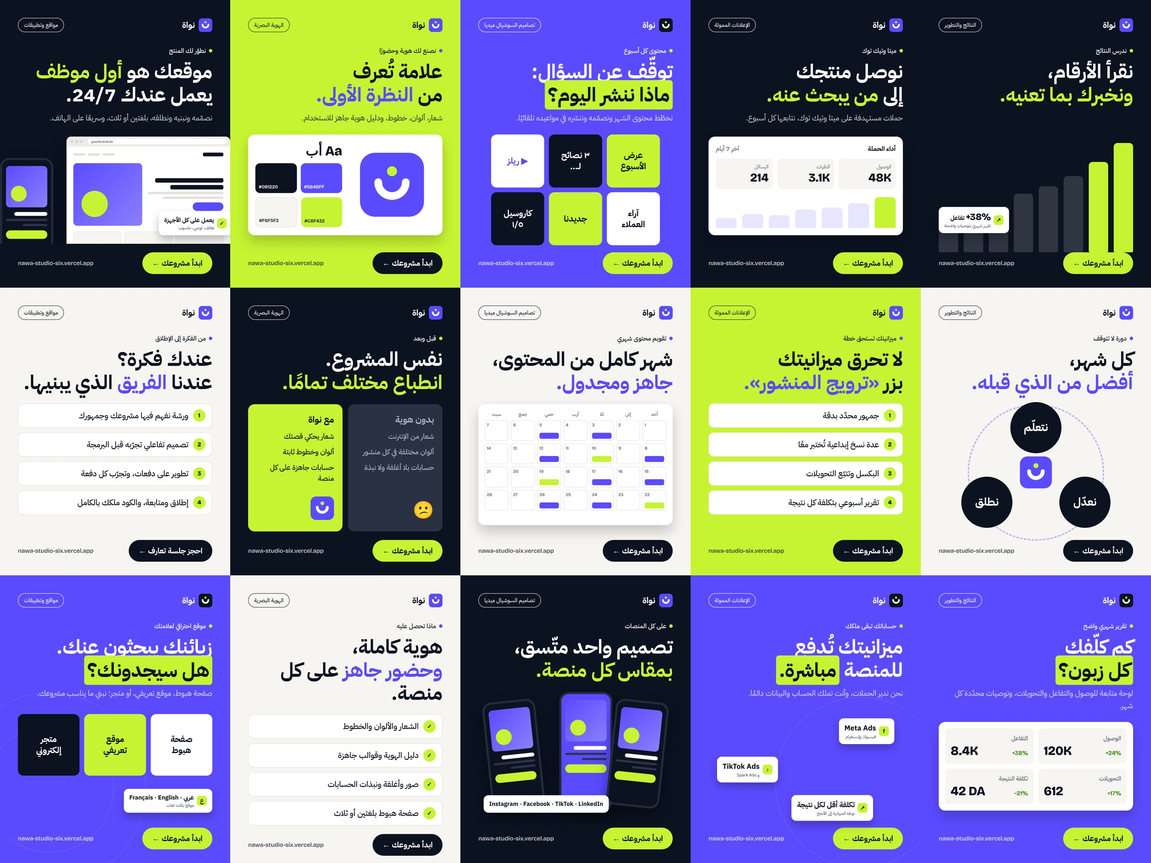
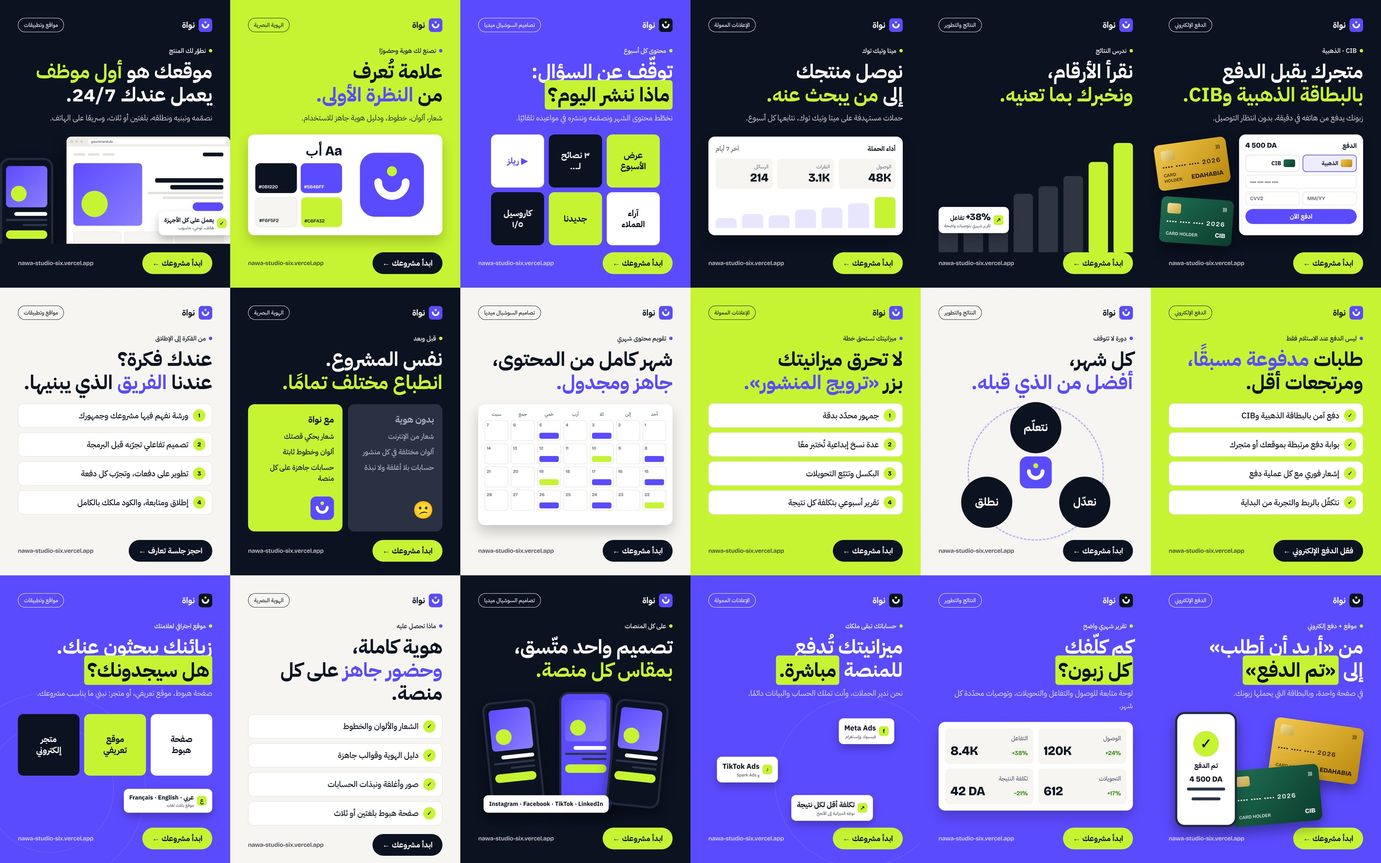
Add CIB/Edahabia payment ads and ad copy page
Claude-Session: https://claude.ai/code/session_013mdqmQCdncwjDBDUVvHTuE

diff --git a/ads/copy/index.html b/ads/copy/index.html
@@ -1,0 +1,84 @@
+<title>Nawa Ad Copy</title>
+<meta name="claude:viewport-fit-sides" content="cover">
+<link rel="stylesheet" href="https://fonts.googleapis.com/css2?family=IBM+Plex+Sans+Arabic:wght@400;500;700&family=Bricolage+Grotesque:opsz,wght@12..96,600..800&display=swap">
+<style>
+/* Layout: ad library. Each creative sits beside its three copy fields, grouped by service, with a sticky filter row. */
+:root{--bg:#F6F5F2;--surface:#FFFFFF;--fg:#0B1220;--muted:#5A6170;--line:#E3E1DB;--accent:#5B4BFF;--lime:#C6F432;--on-lime:#0B1220;--warn-bg:#FFF4D6;--warn-fg:#6B4E00;
+--ar:"IBM Plex Sans Arabic",Tahoma,sans-serif;--lat:"Bricolage Grotesque","Helvetica Neue",Arial,sans-serif}
+@media (prefers-color-scheme:dark){:root:not([data-theme="light"]){--bg:#0B1220;--surface:#151D2E;--fg:#F3F4F7;--muted:#A9B0C0;--line:#273047;--accent:#8A7FFF;--warn-bg:#3A3112;--warn-fg:#F2D78A;color-scheme:dark}}
+:root[data-theme="dark"]{--bg:#0B1220;--surface:#151D2E;--fg:#F3F4F7;--muted:#A9B0C0;--line:#273047;--accent:#8A7FFF;--warn-bg:#3A3112;--warn-fg:#F2D78A;color-scheme:dark}
+body{background:var(--bg);color:var(--fg);font-family:var(--ar);font-size:16px;line-height:1.7}
+.wrap{max-width:1120px;margin:0 auto;padding-block:40px 80px;padding-left:max(16px,env(safe-area-inset-left,0px));padding-right:max(16px,env(safe-area-inset-right,0px))}
+header h1{font-size:clamp(28px,4vw,40px);line-height:1.25;text-wrap:balance;margin:0}
+header p{color:var(--muted);margin:8px 0 0;max-width:62ch}
+.dot{display:inline-block;width:12px;height:12px;border-radius:50%;background:var(--lime);margin-inline-end:10px;vertical-align:middle}
+body::before{content:"";position:fixed;inset:0 0 auto;height:env(safe-area-inset-top,0px);z-index:10;background:var(--bg)}
+.filters{position:sticky;top:env(safe-area-inset-top,0px);z-index:5;background:var(--bg);display:flex;gap:8px;flex-wrap:wrap;padding-block:16px;margin-top:20px;border-bottom:1px solid var(--line)}
+.filters button{font:500 15px var(--ar);border:1px solid var(--line);background:var(--surface);color:var(--fg);padding:8px 16px;border-radius:99px;cursor:pointer}
+.filters button[aria-pressed="true"]{background:var(--fg);color:var(--bg);border-color:var(--fg)}
+.filters button:focus-visible,.cp:focus-visible{outline:3px solid var(--accent);outline-offset:2px}
+section.svc{margin-top:44px}
+section.svc>h2{font-size:24px;margin:0 0 4px}
+section.svc>p{color:var(--muted);margin:0 0 20px}
+.ad{display:grid;grid-template-columns:300px minmax(0,1fr);gap:28px;padding:24px;background:var(--surface);border:1px solid var(--line);border-radius:20px;margin-bottom:18px}
+.ad img{width:100%;border-radius:12px;display:block;aspect-ratio:4/5;object-fit:cover;max-width:100%}
+.meta{display:flex;justify-content:space-between;align-items:center;gap:12px;flex-wrap:wrap}
+.id{font:600 14px var(--lat);color:var(--muted);direction:ltr}
+.fields{display:grid;gap:16px;margin-top:10px}
+.f{min-width:0}
+.f .lab{display:flex;align-items:center;gap:10px;font-size:13px;font-weight:700;color:var(--muted);letter-spacing:.02em}
+.f .lab small{font:500 12px var(--lat);direction:ltr}
+.f .txt{margin-top:6px;white-space:pre-line;overflow-wrap:anywhere}
+.f.h .txt{font-size:20px;font-weight:700;line-height:1.5}
+.cp{margin-inline-start:auto;font:500 13px var(--ar);background:transparent;color:var(--accent);border:1px solid var(--line);border-radius:99px;padding:3px 12px;cursor:pointer}
+.warn{background:var(--warn-bg);color:var(--warn-fg);border-radius:12px;padding:10px 14px;font-size:14px}
+.cta{font-size:13px;background:var(--lime);color:var(--on-lime);border-radius:99px;padding:3px 12px;font-weight:700}
+@media (max-width:720px){.ad{grid-template-columns:1fr;padding:16px}.ad img{max-width:340px}}
+@media (prefers-reduced-motion:reduce){*{transition:none!important}}
+</style>
+<div class="wrap">
+<header><h1><span class="dot"></span>نصوص إعلانات نواة</h1>
+<p>18 تصميمًا، 3 لكل خدمة. لكل إعلان: العنوان (Headline)، النص الأساسي (Primary text)، والوصف (Description)، جاهزة للصق في مدير إعلانات ميتا. الصور بمقاس 1080×1350 (4:5).</p></header>
+<nav class="filters" id="filters" aria-label="الخدمات"></nav>
+<main id="list"></main>
+</div>
+<script>
+const SVC=[
+ ['web','المواقع والتطبيقات','نبني موقعك أو تطبيقك من الفكرة إلى الإطلاق.'],
+ ['brand','الهوية البصرية','شعار وألوان ودليل هوية وحسابات جاهزة.'],
+ ['social','تصاميم السوشيال ميديا','تقويم شهري وتصاميم ونشر مجدول.'],
+ ['ads','الإعلانات الممولة','حملات ميتا وتيك توك ومتابعة أسبوعية.'],
+ ['growth','النتائج والتطوير','تقارير شهرية وتوصيات وتحسين مستمر.'],
+ ['pay','الدفع الإلكتروني','الدفع بالبطاقة الذهبية وCIB على موقعك أو متجرك.'],
+];
+const ADS={
+'web-1':{cta:'ابدأ مشروعك',h:'موقعك يعمل عندك 24/7',p:'زبونك يبحث عنك في الليل، في العطلة، وأنت نائم.\nموقع احترافي يعرّف بمشروعك، يجيب عن أسئلته، ويستقبل طلباته في أي وقت.\n\nنصمّمه ونبنيه ونطلقه بالعربية والفرنسية والإنجليزية، وسريعًا على الهاتف.\nاكتب لنا وابدأ مشروعك هذا الأسبوع.',d:'موقع احترافي بثلاث لغات'},
+'web-2':{cta:'احجز جلسة تعارف',h:'عندك فكرة؟ نحن نبنيها',p:'من الفكرة إلى منتج يعمل في أيدي زبائنك:\n١. ورشة نفهم فيها مشروعك وجمهورك\n٢. تصميم تفاعلي تجرّبه قبل البرمجة\n٣. تطوير على دفعات، وتجرّب كل دفعة بنفسك\n٤. إطلاق ومتابعة، والكود ملكك بالكامل\n\nاحجز جلسة تعارف مجانية لمدة نصف ساعة.',d:'جلسة تعارف مجانية'},
+'web-3':{cta:'ابدأ مشروعك',h:'زبائنك يبحثون عنك. هل سيجدونك؟',p:'إذا لم يكن لمشروعك موقع، فزبونك سيجد منافسك أولًا.\nصفحة هبوط لحملتك، موقع تعريفي لشركتك، أو متجر إلكتروني لمنتجاتك: نبني ما يناسبك، بالعربية والفرنسية والإنجليزية.',d:'صفحة هبوط، موقع، أو متجر'},
+'brand-1':{cta:'ابدأ مشروعك',h:'علامة تُعرف من النظرة الأولى',p:'الزبون يحكم على مشروعك في ثوانٍ.\nنصمّم لك شعارًا وألوانًا وخطوطًا تحكي قصتك، مع دليل هوية وقوالب جاهزة يستعملها فريقك في كل منشور ومطبوعة.',d:'شعار + ألوان + دليل هوية'},
+'brand-2':{cta:'ابدأ مشروعك',h:'نفس المشروع. انطباع مختلف',p:'شعار من الإنترنت، ألوان تتغيّر في كل منشور، وحسابات بلا غلاف ولا نبذة؟\nهوية واحدة ثابتة تجعل مشروعك يبدو بحجم ما يستحق، وتجعل الزبون يتذكّرك.\n\nأرنا ما عندك اليوم، ونقترح لك البداية.',d:'هوية بصرية متكاملة'},
+'brand-3':{cta:'ابدأ مشروعك',h:'هوية كاملة وحضور جاهز',p:'كل ما يراه زبونك أول مرة، في باقة واحدة:\n✓ الشعار والألوان والخطوط\n✓ دليل الهوية وقوالب جاهزة\n✓ صور وأغلفة ونبذات حسابات فيسبوك وإنستغرام وتيك توك ولينكدإن\n✓ صفحة هبوط بلغتين أو ثلاث',d:'باقة الهوية والحضور'},
+'social-1':{cta:'ابدأ مشروعك',h:'توقّف عن السؤال: ماذا ننشر اليوم؟',p:'نخطّط محتوى شهرك كاملًا، نصمّمه بهوية مشروعك، ثم ننشره في مواعيده تلقائيًا.\nأنت تراجع وتوافق من بوابة نواة، ونحن نتكفّل بالباقي.',d:'محتوى شهري جاهز'},
+'social-2':{cta:'ابدأ مشروعك',h:'شهر كامل من المحتوى، مجدول',p:'تقويم محتوى شهري: منشورات، كاروسيل، وأغلفة ريلز.\nترى كل منشور قبل نشره، توافق عليه أو تطلب تعديله، ثم يُنشر تلقائيًا في يومه وساعته.',d:'تقويم شهري + نشر تلقائي'},
+'social-3':{cta:'ابدأ مشروعك',h:'تصميم واحد، بمقاس كل منصة',p:'إنستغرام، فيسبوك، تيك توك، ولينكدإن: لكل منصة مقاسها وجمهورها.\nنصمّم محتواك متّسقًا مع هويتك، ونكيّفه لكل منصة، وننشره من مكان واحد.',d:'نشر على 4 منصات'},
+'ads-1':{cta:'ابدأ مشروعك',h:'نوصل منتجك لمن يبحث عنه',warn:true,p:'حملات مستهدفة على فيسبوك وإنستغرام وتيك توك.\nنختار الجمهور، نصمّم عدة نسخ ونختبرها، ونتابع النتائج كل أسبوع لنضع الميزانية حيث تعطي أفضل نتيجة.',d:'إعلانات ميتا وتيك توك'},
+'ads-2':{cta:'ابدأ مشروعك',h:'لا تحرق ميزانيتك بـ«ترويج المنشور»',p:'زر «ترويج» يصرف المال بسرعة، لكنه نادرًا ما يجلب زبائن.\nحملة حقيقية تبدأ بـ:\n١. جمهور محدّد بدقة\n٢. عدة نسخ إبداعية تُختبر معًا\n٣. البكسل وتتبّع التحويلات\n٤. تقرير أسبوعي بتكلفة كل نتيجة',d:'حملات مدروسة، لا ترويج عشوائي'},
+'ads-3':{cta:'ابدأ مشروعك',h:'ميزانيتك تُدفع للمنصة مباشرة',p:'نحن ندير حملاتك على ميتا وتيك توك، وأنت تبقى المالك.\nتُدفع الميزانية من حسابك مباشرة للمنصة، وتبقى الحسابات والبيانات ملكك دائمًا. نحن نوجّهها نحو الإعلانات الأنجح.',d:'شفافية كاملة في الميزانية'},
+'growth-1':{cta:'ابدأ مشروعك',h:'نقرأ الأرقام ونخبرك بما تعنيه',warn:true,p:'الوصول، التفاعل، والتحويلات: أرقام كثيرة، وسؤال واحد يهمّك: ماذا أفعل الآن؟\nنرسل لك كل شهر تقريرًا واضحًا بلغة بسيطة، مع توصيات محدّدة للشهر القادم.',d:'تقرير شهري بتوصيات'},
+'growth-2':{cta:'ابدأ مشروعك',h:'كل شهر أفضل من الذي قبله',p:'نتعلّم من النتائج، نعدّل المحتوى والإعلانات والمنتج، ثم نطلق من جديد.\nدورة مستمرة تجعل كل شهر يبني على ما نجح في الشهر الذي قبله.',d:'نتعلّم، نعدّل، نطلق'},
+'growth-3':{cta:'ابدأ مشروعك',h:'كم كلّفك كل زبون؟',warn:true,p:'إذا لم تعرف تكلفة الزبون الواحد، فأنت لا تعرف إن كانت إعلاناتك مربحة.\nلوحة متابعة للوصول والتفاعل والتحويلات، وتكلفة كل نتيجة في كل حملة، مع توصيات محدّدة كل شهر.',d:'لوحة متابعة + تقرير شهري'},
+'pay-1':{cta:'ابدأ مشروعك',h:'متجرك يقبل الذهبية وCIB',p:'زبونك يريد الشراء الآن، لا انتظار التوصيل ليدفع.\nنضيف إلى موقعك أو متجرك الدفع الإلكتروني بالبطاقة الذهبية وبطاقة CIB، ليدفع من هاتفه في دقيقة.',d:'الدفع الإلكتروني لمتجرك'},
+'pay-2':{cta:'فعّل الدفع الإلكتروني',h:'طلبات مدفوعة مسبقًا، ومرتجعات أقل',p:'الدفع عند الاستلام فقط يعني طلبات تُرفض عند الباب ومصاريف توصيل ضائعة.\n✓ دفع آمن بالبطاقة الذهبية وCIB\n✓ بوابة دفع مرتبطة بموقعك أو متجرك\n✓ إشعار فوري مع كل عملية دفع\n✓ نتكفّل بالربط والتجربة من البداية',d:'الذهبية وCIB على موقعك'},
+'pay-3':{cta:'ابدأ مشروعك',h:'من «أريد أن أطلب» إلى «تم الدفع»',p:'موقع أو متجر جاهز للبيع، والدفع فيه بالبطاقة التي يحملها زبونك: الذهبية أو CIB.\nكل شيء في صفحة واحدة، من اختيار المنتج إلى تأكيد الدفع.',d:'موقع + دفع إلكتروني'},
+};
+const LAB={h:['العنوان','Headline'],p:['النص الأساسي','Primary text'],d:['الوصف','Description']};
+const esc=s=>s.replace(/[&<>"]/g,c=>({'&':'&amp;','<':'&lt;','>':'&gt;','"':'&quot;'}[c]));
+document.getElementById('list').innerHTML=SVC.map(([k,name,sub])=>`<section class="svc" data-svc="${k}"><h2>${name}</h2><p>${sub}</p>${[1,2,3].map(n=>{const id=`${k}-${n}`,a=ADS[id];return `<article class="ad"><img src="img/${id}.jpg" alt="${esc(a.h)}" loading="lazy" width="1080" height="1350"><div style="min-width:0"><div class="meta"><span class="id">${id}.png</span><span class="cta">الزر: ${a.cta}</span></div>${a.warn?'<p class="warn">الأرقام في التصميم توضيحية. استبدلها بنتائج حقيقية أو أضف عليها «مثال» قبل النشر.</p>':''}<div class="fields">${['h','p','d'].map(f=>`<div class="f ${f}"><div class="lab">${LAB[f][0]} <small>${LAB[f][1]}</small><button class="cp" type="button" data-t="${esc(a[f])}">نسخ</button></div><div class="txt">${esc(a[f])}</div></div>`).join('')}</div></div></article>`}).join('')}</section>`).join('');
+const fl=document.getElementById('filters');
+fl.innerHTML=[['all','الكل'],...SVC.map(s=>[s[0],s[1]])].map(([k,n],i)=>`<button type="button" data-k="${k}" aria-pressed="${i==0}">${n}</button>`).join('');
+fl.addEventListener('click',e=>{const b=e.target.closest('button');if(!b)return;fl.querySelectorAll('button').forEach(x=>x.setAttribute('aria-pressed',x===b));document.querySelectorAll('section.svc').forEach(s=>s.hidden=!(b.dataset.k=='all'||s.dataset.svc==b.dataset.k));});
+document.addEventListener('click',e=>{const b=e.target.closest('.cp');if(!b)return;const done=()=>{b.textContent='نُسخ';setTimeout(()=>b.textContent='نسخ',1500)};
+const sel=()=>{const r=document.createRange();r.selectNodeContents(b.closest('.f').querySelector('.txt'));const s=getSelection();s.removeAllRanges();s.addRange(r);b.textContent='حدّد ثم انسخ'};
+try{navigator.clipboard.writeText(b.dataset.t).then(done,sel)}catch(_){sel()}});
+document.documentElement.dir='rtl';document.documentElement.lang='ar';
+</script>

diff --git a/ads/ads.html b/ads/ads.html
@@ -63,6 +63,16 @@ h1 .mark{background:var(--lime);color:var(--ink);padding:0 14px;border-radius:14
 .vs{display:grid;grid-template-columns:1fr 1fr;gap:26px;height:100%}
 .vs>div{border-radius:30px;padding:40px;display:flex;flex-direction:column;gap:22px;font-size:34px;font-weight:500}
 .vs h3{font-size:42px}
+.bcard{position:absolute;width:420px;height:265px;border-radius:26px;padding:30px;color:#fff;box-shadow:0 30px 60px rgba(0,0,0,.35);display:flex;flex-direction:column;justify-content:space-between;font-family:"Bricolage Grotesque";direction:ltr}
+.bcard .chipx{width:64px;height:48px;border-radius:10px;background:linear-gradient(135deg,#f3e3a1,#c9a640)}
+.bcard .num{font-size:30px;letter-spacing:4px;font-weight:600}
+.bcard .nm{display:flex;justify-content:space-between;align-items:flex-end;font-size:30px;font-weight:800}
+.gold{background:linear-gradient(135deg,#F2C94C,#B8860B);color:#2b1d00}
+.cib{background:linear-gradient(135deg,#1F6F54,#0B3B2C)}
+.field{height:64px;border-radius:16px;border:2px solid var(--line);margin-top:14px;display:flex;align-items:center;padding:0 20px;font:600 24px "Bricolage Grotesque";color:var(--muted);direction:ltr}
+.opt{flex:1;border-radius:18px;border:3px solid var(--line);padding:18px;font-size:26px;font-weight:700;display:flex;align-items:center;gap:12px}
+.opt.on{border-color:var(--indigo);background:#EEECFF}
+.opt i{width:54px;height:36px;border-radius:8px;flex:none}
 </style></head><body>
 <script>
 const LOGO=`<svg viewBox="0 0 512 512"><rect width="512" height="512" rx="120" fill="#5B4BFF"/><path d="M146 236 A110 110 0 0 0 366 236" fill="none" stroke="#fff" stroke-width="62" stroke-linecap="round"/><circle cx="256" cy="148" r="40" fill="#C6F432"/></svg>`;
@@ -119,6 +129,14 @@ ${[['نتعلّم','top:-10px;left:50%;transform:translateX(-50%)'],['نعدّل
 <div style="position:absolute;inset:0;display:grid;place-items:center">${LOGO.replace('<svg','<svg style="width:150px;height:150px"')}</div></div></div>${foot()}`],
 ['growth-3','indigo',`${hd('النتائج والتطوير')}<div class="k">تقرير شهري واضح</div><h1>كم كلّفك<br><span class="mark">كل زبون؟</span></h1><p class="sub">لوحة متابعة للوصول والتفاعل والتحويلات، وتوصيات محدّدة كل شهر.</p>
 <div class="vis"><div class="card" style="position:absolute;inset:0 0 40px 0;display:grid;grid-template-columns:1fr 1fr;gap:22px;padding:30px">${[['الوصول','120K','+24%'],['التفاعل','8.4K','+38%'],['التحويلات','612','+17%'],['تكلفة النتيجة','42 DA','−21%']].map(([a,b,c])=>`<div style="background:var(--paper);border-radius:22px;padding:26px;display:flex;flex-direction:column;justify-content:space-between"><div style="font-size:28px;color:var(--muted);font-weight:500">${a}</div><div style="display:flex;justify-content:space-between;align-items:baseline;direction:ltr"><span style="font:800 60px 'Bricolage Grotesque'">${b}</span><span style="font:700 28px 'Bricolage Grotesque';color:#3a8f12">${c}</span></div></div>`).join('')}</div></div>${foot()}`],
+['pay-1','ink',`${hd('الدفع الإلكتروني')}<div class="k">CIB · الذهبية</div><h1>متجرك يقبل الدفع<br><span class="hl">بالبطاقة الذهبية وCIB.</span></h1><p class="sub">زبونك يدفع من هاتفه في دقيقة، بدون انتظار التوصيل.</p>
+<div class="vis"><div class="card" style="position:absolute;inset:0 0 40px 330px;padding:30px"><div style="font-size:30px;font-weight:700;display:flex;justify-content:space-between">الدفع<span style="font:800 34px 'Bricolage Grotesque';direction:ltr">4 500 DA</span></div><div style="display:flex;gap:14px;margin-top:20px"><div class="opt on"><i class="gold"></i>الذهبية</div><div class="opt"><i class="cib"></i>CIB</div></div><div class="field">•••• •••• •••• ••••</div><div style="display:flex;gap:14px"><div class="field" style="flex:1">MM/YY</div><div class="field" style="flex:1">CVV2</div></div><div style="margin-top:18px;height:70px;border-radius:99px;background:var(--indigo);color:#fff;display:grid;place-items:center;font-size:30px;font-weight:700">ادفع الآن</div></div>
+<div class="bcard gold" style="left:-60px;top:30px;transform:rotate(-8deg);width:340px;height:215px"><div style="display:flex;justify-content:space-between"><span class="chipx"></span><span style="font-size:24px;opacity:.85">))) </span></div><div class="num">•••• •••• •••• 2026</div><div class="nm"><span style="font-size:22px;font-weight:600;opacity:.85">CARD HOLDER</span>EDAHABIA</div></div><div class="bcard cib" style="left:-40px;top:300px;transform:rotate(4deg);width:340px;height:215px"><div style="display:flex;justify-content:space-between"><span class="chipx"></span><span style="font-size:24px;opacity:.85">))) </span></div><div class="num">•••• •••• •••• 2026</div><div class="nm"><span style="font-size:22px;font-weight:600;opacity:.85">CARD HOLDER</span>CIB</div></div></div>${foot()}`],
+['pay-2','lime-bg',`${hd('الدفع الإلكتروني')}<div class="k">ليس الدفع عند الاستلام فقط</div><h1>طلبات <span class="hl">مدفوعة مسبقًا،</span><br>ومرتجعات أقل.</h1>
+<ul class="list"><li><span class="n">✓</span>دفع آمن بالبطاقة الذهبية وCIB</li><li><span class="n">✓</span>بوابة دفع مرتبطة بموقعك أو متجرك</li><li><span class="n">✓</span>إشعار فوري مع كل عملية دفع</li><li><span class="n">✓</span>نتكفّل بالربط والتجربة من البداية</li></ul>${foot('فعّل الدفع الإلكتروني')}`],
+['pay-3','indigo',`${hd('الدفع الإلكتروني')}<div class="k">موقع + دفع إلكتروني</div><h1>من «أريد أن أطلب»<br>إلى <span class="mark">«تم الدفع»</span></h1><p class="sub">في صفحة واحدة، وبالبطاقة التي يحملها زبونك.</p>
+<div class="vis"><div class="bcard gold" style="right:10px;top:60px;transform:rotate(8deg)"><div style="display:flex;justify-content:space-between"><span class="chipx"></span><span style="font-size:24px;opacity:.85">))) </span></div><div class="num">•••• •••• •••• 2026</div><div class="nm"><span style="font-size:22px;font-weight:600;opacity:.85">CARD HOLDER</span>EDAHABIA</div></div><div class="bcard cib" style="right:200px;top:270px;transform:rotate(-5deg)"><div style="display:flex;justify-content:space-between"><span class="chipx"></span><span style="font-size:24px;opacity:.85">))) </span></div><div class="num">•••• •••• •••• 2026</div><div class="nm"><span style="font-size:22px;font-weight:600;opacity:.85">CARD HOLDER</span>CIB</div></div>
+<div class="phone" style="left:30px;top:10px;height:540px;width:290px;background:#fff;padding:40px 22px;display:flex;flex-direction:column;align-items:center;gap:18px;color:var(--ink)"><div style="width:120px;height:120px;border-radius:50%;background:var(--lime);display:grid;place-items:center;font-size:64px;font-weight:800;margin-top:40px">✓</div><div style="font-size:32px;font-weight:700">تم الدفع</div><div style="font:800 36px 'Bricolage Grotesque';direction:ltr">4 500 DA</div><div class="ln s" style="width:80%"></div><div class="ln s" style="width:60%"></div></div></div>${foot()}`],
 ];
 document.body.innerHTML=ads.map(([id,cls,html])=>`<section class="ad ${cls}" id="${id}">${html}</section>`).join('');
 </script></body></html>
